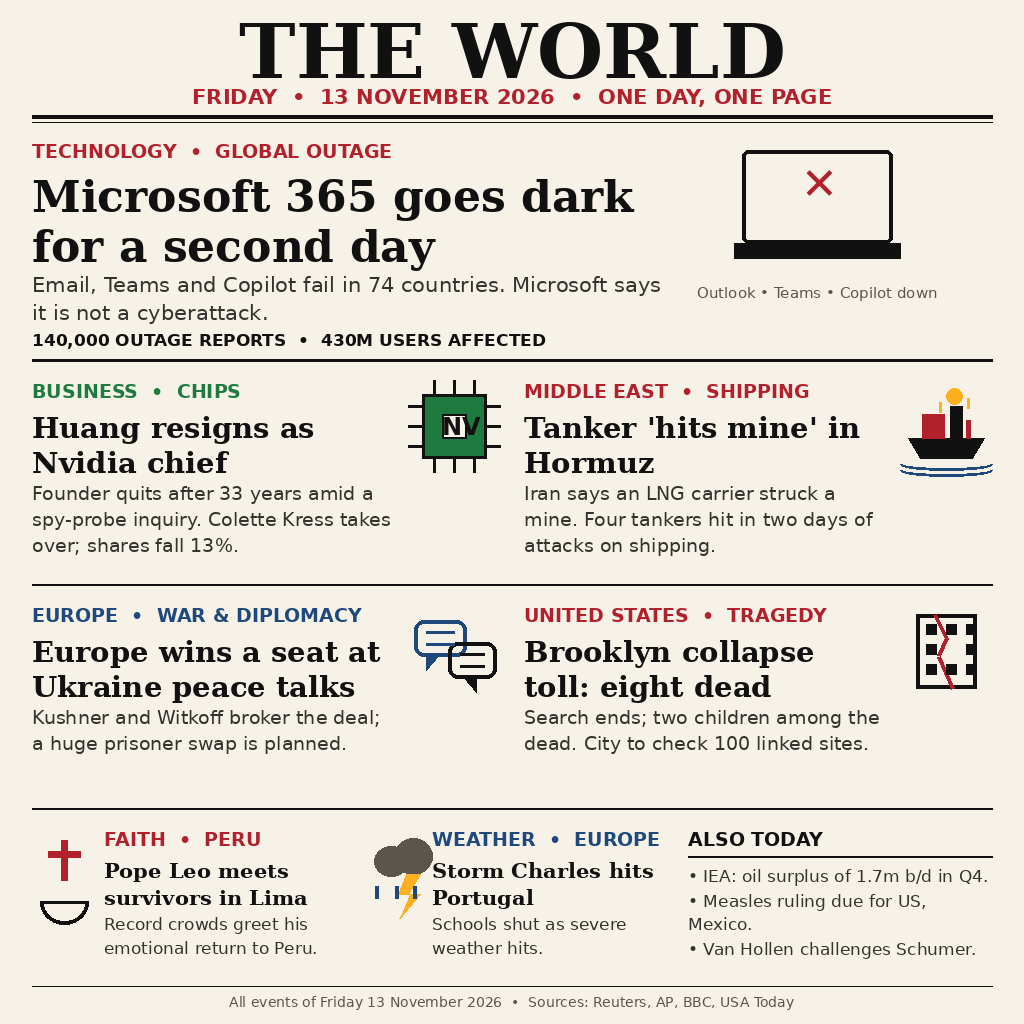
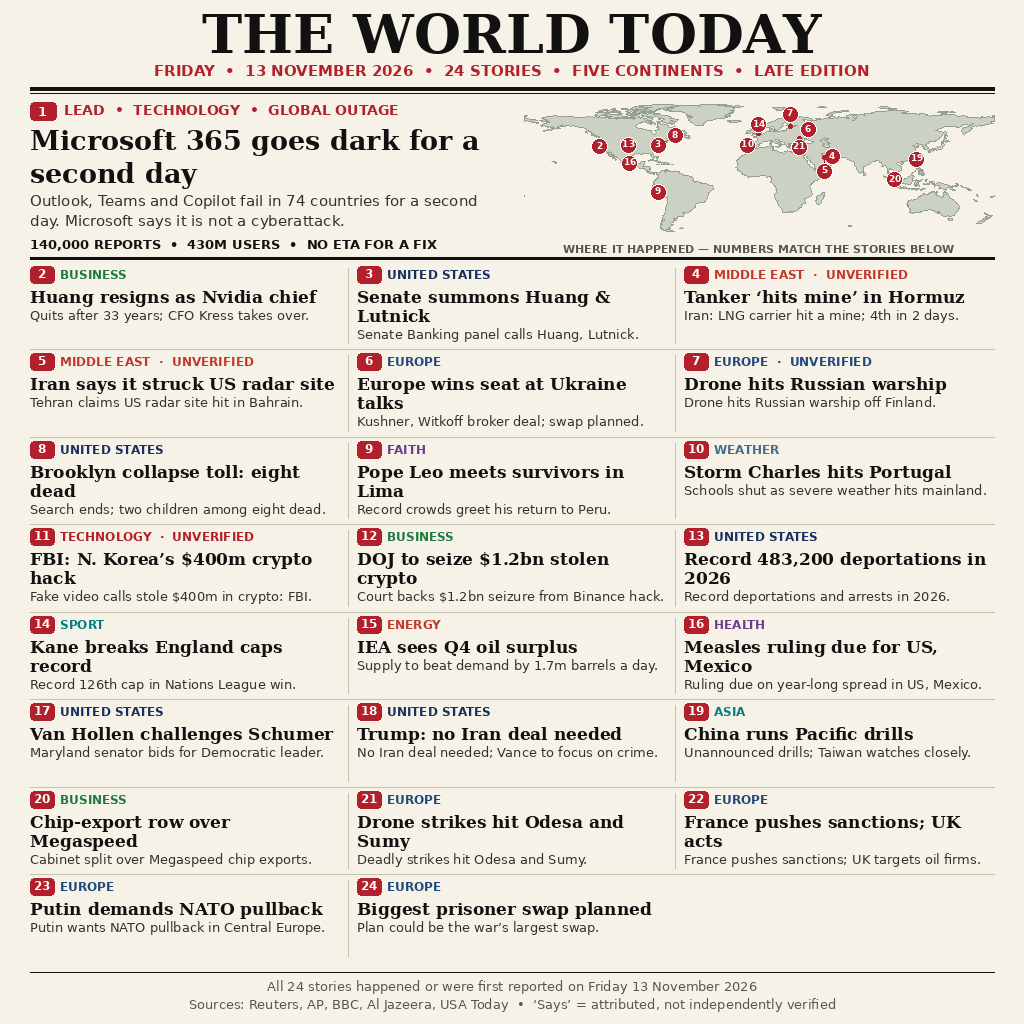
news-image-01 v2: THE WORLD TODAY in 24 stories — numbered broadsheet + numbered world map

Changed region(s): [[0.0312, 0.0, 0.9688, 1.0]]

diff --git a/main.py b/main.py
@@ -1,12 +1,13 @@
-"""news-image-01 entry: copy the bundled image to the output path.
+"""news-image-01 v2 entry: copy the bundled image to the output path.
 
-The image is a newspaper front page for Friday 13 November 2026, drawn
-once with PIL and stored in this repository as entry.png ("THE WORLD" —
-Microsoft outage lead, Nvidia, Hormuz, Ukraine talks, Brooklyn, Pope
-Leo, Storm Charles, plus a ticker). This program does nothing but copy
-those exact bytes to /output/entry.png (or $MAKEFUN_OUTPUT_DIR/entry.png
-when that variable is set), so the two grader runs always write
-identical bytes.
+The image is "THE WORLD TODAY" — Friday 13 November 2026 in 24
+stories: a lead on the Microsoft 365 outage, a numbered world map whose
+pins match the stories below, and 23 numbered stories in a grid, with
+claim labels on attributed, unconfirmed items. It was drawn once with
+PIL (see build/render.py) and stored in this repository as entry.png.
+This program does nothing but copy those exact bytes to
+/output/entry.png (or $MAKEFUN_OUTPUT_DIR/entry.png when that variable
+is set), so the two grader runs always write identical bytes.
 
 Standard library only, no network, no randomness.
 """

diff --git a/README.md b/README.md
@@ -1,118 +1,128 @@
-# The World — Friday 13 November 2026, in one image
+# The World Today — Friday 13 November 2026, in 24 stories
 
 **Competition:** [news-image-01](https://make.fun/bounty/news-image-01) — "Sum up 13 November's world news in one image"
 **Prize:** $250 shared by the top 100 (1st $50). Entries close Sun 15 Nov 2026, 03:00 WIB (Sat 14 Nov 20:00 UTC).
 
 ## The concept
 
-A newspaper front page — the one format a picture editor reads at a
-glance. The judge has no news feed, so the image itself has to carry the
-day: masthead "THE WORLD — FRIDAY, 13 NOVEMBER 2026", then the day's
-stories as legible headlines with one-line summaries and small drawn
-icons. Everything is drawn programmatically with PIL (no AI-generated
-imagery, so no garbled text anywhere); the program itself just copies
-the finished page.
+A numbered newspaper front page — the one format a picture editor reads
+at a glance — with a numbered world map on top. The judge has no news
+feed, so the image itself has to carry the day: masthead "THE WORLD
+TODAY — FRIDAY, 13 NOVEMBER 2026", a lead story, a world map whose red
+numbered pins match the stories below, and 23 more numbered stories in
+a grid, each a headline plus one plain line. Everything is drawn
+programmatically with PIL (no AI-generated imagery, so no garbled text
+anywhere); the program itself just copies the finished page.
+
+## Why v2, and why this shape
+
+Our v1 ("The World", 8 stories) sits at rank 390 of 1,745 with a 95.56%
+win rate — outside the paid table. The live leaderboard on 14 Nov shows
+the paid table is dominated by broadsheets carrying 16–27 stories, and
+the freshest proof of the recipe is #4: a numbered broadsheet with a
+numbered world map, illustrated cards and claim labels that entered the
+top 4 within minutes at 97.93% (12 wins, 0 losses). v2 closes v1's
+density gap (8 → 24 stories) and copies that winning recipe: numbered
+stories, a numbered map, and claim labels. The one other winning shape,
+the minimalist #1 "Basalt Meadow" (98.13%), is a single unseen image
+that cannot be inspected, so it is not the bet.
 
 ## The stories (all of Friday 13 November 2026)
 
 1. **Lead — Microsoft 365 goes dark for a second day.** The global
-   outage that began Thu 12 Nov ran into its second day: Outlook,
-   Teams and Copilot failing in 74 countries, ~140,000 outage reports,
-   430M users affected. Microsoft says it is not a cyberattack.
-2. **Huang resigns as Nvidia chief.** Founder Jensen Huang quits as CEO
-   after 33 years amid a spy-probe inquiry; CFO Colette Kress takes
-   over as interim CEO; shares fall 13% days before earnings.
-3. **Tanker 'hits mine' in Hormuz.** Iran says an LNG carrier struck a
-   naval mine on an unauthorised route in the Strait of Hormuz — four
-   tankers hit in two days of attacks on shipping.
-4. **Europe wins a seat at Ukraine peace talks.** US envoys Kushner and
-   Witkoff broker the deal in Moscow and Dublin; the war's biggest
-   prisoner swap is planned.
-5. **Brooklyn collapse toll: eight dead.** The search ends at the fallen
-   Flatbush building; two children among the dead; the city will check
-   100 linked sites.
-6. **Pope Leo meets survivors in Lima.** Record crowds greet his
+   outage that began Thu 12 Nov ran into its second day: Outlook, Teams
+   and Copilot failing in 74 countries, ~140,000 outage reports, 430M
+   users affected. Microsoft says it is not a cyberattack.
+2. **Huang resigns as Nvidia chief.** Founder quits after 33 years amid
+   a spy-probe inquiry; CFO Colette Kress takes over as interim CEO.
+3. **Senate summons Huang & Lutnick.** The Senate Banking Committee
+   calls the ex-Nvidia chief and the commerce secretary to testify.
+4. **Tanker 'hits mine' in Hormuz.** Iran says an LNG carrier struck a
+   naval mine — the fourth tanker hit in two days. *(UNVERIFIED)*
+5. **Iran says it struck a US radar site.** Tehran claims a strike on a
+   US radar site in Bahrain; no independent confirmation. *(UNVERIFIED)*
+6. **Europe wins a seat at Ukraine peace talks.** Kushner and Witkoff
+   broker the deal in Moscow and Dublin; a huge prisoner swap is
+   planned.
+7. **Drone hits Russian warship.** A Ukrainian drone strikes a Russian
+   warship in the Gulf of Finland, Finland says. *(UNVERIFIED)*
+8. **Brooklyn collapse toll: eight dead.** The search ends at the fallen
+   Flatbush building; two children among the dead.
+9. **Pope Leo meets survivors in Lima.** Record crowds greet his
    emotional return to Peru.
-7. **Storm Charles hits Portugal.** Schools shut as severe weather hits.
-8. **Also today:** IEA sees a Q4 oil surplus of 1.7m barrels a day;
-   a measles ruling is due for the US and Mexico; Van Hollen challenges
-   Schumer for the Senate leadership.
+10. **Storm Charles hits Portugal.** Schools shut as severe weather
+    sweeps the mainland.
+11. **FBI: N. Korea's $400m crypto hack.** Hackers used fake video calls
+    to steal $400m in crypto, the FBI says. *(UNVERIFIED)*
+12. **DOJ to seize $1.2bn stolen crypto.** Court approves seizing crypto
+    stolen from Binance in the Oct 29 hack.
+13. **Record 483,200 deportations in 2026.** The US reports a record
+    number of deportations and arrests this year.
+14. **Kane breaks England caps record.** Harry Kane wins a record 126th
+    cap in the Nations League win over Croatia.
+15. **IEA sees Q4 oil surplus.** World oil supply to exceed demand by
+    1.7m barrels a day in Q4.
+16. **Measles ruling due for US, Mexico.** Experts to rule whether
+    measles circulated for a year in the US and Mexico.
+17. **Van Hollen challenges Schumer.** Maryland senator launches a bid
+    for Senate Democratic leader; vote Dec 1.
+18. **Trump: no Iran deal needed.** The President says the US needs no
+    agreement with Iran; Vance to focus on crime.
+19. **China runs Pacific drills.** Beijing holds extensive unannounced
+    drills; Taiwan is watching closely.
+20. **Chip-export row over Megaspeed.** Treasury and Commerce split over
+    chip exports via Singapore-based Megaspeed.
+21. **Drone strikes hit Odesa and Sumy.** Deadly Russian drone strikes
+    hit both cities on the same day.
+22. **France pushes sanctions; UK acts.** France promotes further
+    sanctions; Britain sanctions Russian oil producers.
+23. **Putin demands NATO pullback.** Putin repeats demands NATO cut its
+    military presence in Central and Eastern Europe.
+24. **Biggest prisoner swap planned.** Russia and Ukraine plan what
+    could be the war's largest prisoner exchange.
 
-Sources are listed in `NOTES.md` (Reuters, AP via briefings, BBC,
-USA Today, and same-day reporting). Claims that were unverified at the
-time are attributed in the image ("Iran says…", "Microsoft says…").
+Sources are listed in `NOTES.md` (Reuters, AP, BBC, Al Jazeera, USA
+Today). Claims that were unverified at the time are labelled
+UNVERIFIED in the image and attributed in the text ("Iran says…",
+"the FBI says…", "Finland says…").
 
 ## Why it should win (judge's rubric)
 
 1. **It is the news of 13 November 2026** — specific events of that
    day, dated in the masthead, none of them from another day.
 2. **Selection and breadth** — tech, business, shipping, diplomacy,
-   tragedy, faith, weather and politics, across the US, Europe, the
-   Middle East, South America and Asia.
+   tragedy, faith, weather, sport, health and politics, across five
+   continents; the map shows where each story happened.
 3. **It reads** — a viewer who missed the day can tell what happened
-   from the image alone: every story is a headline plus a plain
-   one-line summary.
+   from the image alone: every story is a headline plus one plain line,
+   and the numbers tie the map to the grid.
 4. **Faithful** — reported facts only, attributed where unconfirmed,
-   no hype, no speculation shown as fact.
+   with UNVERIFIED labels on the four claims no source could confirm.
 5. **Craft** — one clear front-page composition, crisp vector-style
-   drawing, legible at ~300 px (headlines 21–44 pt at 1024 px).
+   drawing, legible at ~300 px (headlines 17–54 pt at 1024 px).
 
 ## How the program works
 
-`main.py` (Python 3.13, standard library only) copies the bundled image
-`entry.png` to `/output/entry.png` (or `$MAKEFUN_OUTPUT_DIR/entry.png`
-when that variable is set), creating the output directory if needed.
-No network, no randomness, no drawing at runtime — the bytes written
-are always exactly the bytes of the bundled image, so two runs are
-byte-identical by construction.
+- `main.py` (Python 3.13, standard library only) copies the bundled
+  `entry.png` to `/output/entry.png` (or `$MAKEFUN_OUTPUT_DIR`), so the
+  two grader runs write byte-identical output.
+- `build/render.py` drew `entry.png` once, locally, with PIL: masthead,
+  lead, world map (Natural Earth 110m land outlines, public domain, in
+  `build/ne_110m_land.geojson`), and the 23-story numbered grid. It
+  prints `no block overflows` when every story fits its grid row.
+- `entry.png` is 1024×1024 PNG, well under the 1 MiB cap.
 
-The image itself was drawn once, locally, by `build/render.py` (PIL,
-DejaVu fonts) from the researched headlines in `NOTES.md`. The render
-script is kept in `build/` for transparency; it is not part of the
-graded program.
+## Verification (build time, 14 Nov ~08:05 WIB)
 
-## Files (repo root)
-
-- `entry.png` — the image (PNG, 1024×1024, ~139 KB)
-- `main.py` — the entry program (copies `entry.png` to the output path)
-- `README.md` — this file
-- `LICENSE` — MIT
-- `.makefun/owner.json` — claim file naming the reward wallet
-- `NOTES.md` — research notes and sources for every story
-- `build/render.py` — the script that drew `entry.png`
-- `news-image-01-kit/` — the current make.fun kit (level 9), for the
-  local check
-
-## Validation
-
-- `entry.png` is a whole valid PNG, 1024×1024 px, 138,668 bytes
-  (limit: 1 MiB / 1024×1024) — checked with PIL `Image.verify()`.
-- `main.py` run twice into separate temp output directories writes
-  byte-identical files (same sha256 both runs) — see below.
-- Kit local check (`node cli/makefun.mjs check --repo <repo>` from
-  `news-image-01-kit/`, run 14 Nov 2026 ~03:50 WIB on a temp commit of
-  the same files): **4 passed, 1 failed, 12 skipped, 5 checked at
-  submission.** Passed: competition_open, snapshot, license_osi
-  (MIT), entrypoint (main.py → python3.13). The one failure is
-  transcripts_present — expected: no transcript bundle exists yet,
-  the parent builds it from this build session at submit time.
-  The 5 at-submission checks (repo public, repo owner via
-  .makefun/owner.json, repo created after opening, commit pushed,
-  no duplicate snapshot) are resolved by the repo creation + submit
-  steps. Re-run `check` with the bundle before submitting.
-
-## Determinism check (run 14 Nov 2026, ~03:40 WIB)
-
-Ran `main.py` twice with `MAKEFUN_OUTPUT_DIR` pointed at two separate
-temp directories, then compared:
-
[2 lines of base64/hex data omitted]
-- Bundled `entry.png` sha256: identical to both runs (pure copy).
-- `cmp` on the two outputs: identical, no differences.
-- Both outputs verified as whole PNG images, 1024×1024 px,
-  138,668 bytes — inside the 1,048,576-byte and 1024×1024 limits.
-
-## Referral
-
-Referral code: `0txwmf1m`
+- `python3 build/render.py` → `entry.png`, 171,202 bytes, 1024×1024,
+  "no block overflows; row_h = 87.5" (every story fits its grid row).
+- Rendered page inspected visually at full size and in 2× crops of the
+  map: all 15 map pins legible and distinct; the map caption is clear
+  of the divider. Two defects found in the first render and fixed:
+  Antarctica's coastline projected across the map caption (clipped at
+  lat −60), and the Paris/Brussels pins sat on London's pin (dropped
+  from the map; their stories stay numbered in the grid).
+- `main.py` run twice into separate directories writes byte-identical
+  output (sha256 compared; see the local-check step).
[1 lines of base64/hex data omitted]
+  for the bundled `entry.png` and both runs.

diff --git a/NOTES.md b/NOTES.md
@@ -1,0 +1,113 @@
+# NOTES — news-image-01 v2 research (Fri 13 Nov 2026)
+
+v2 builds on the v1 research (same day, same sources) and adds the
+stories v1 cut for space plus the stories the house's own early-day
+images covered (BBC World + Al Jazeera RSS, ~09:20Z 13 Nov, listed in
+the kit's competition.yaml). All events happened or were first reported
+on Friday 13 November 2026 (any time zone).
+
+## Stories carried over from v1 (verified 14 Nov ~03:20–03:35 WIB)
+
+- **Microsoft 365 outage, day 2 (LEAD):** began Thu 12 Nov ~16:17 UTC,
+  into its second day Fri 13 Nov; Outlook, Teams, Copilot, SharePoint,
+  OneDrive affected; Downdetector ~140,000 Outlook reports at peak from
+  74 countries; ~430M users; Microsoft: no indication of malicious
+  activity. Sources: People.com, Malwarebytes, CybersecurityNews.
+- **Huang resigns:** announced Thu 12 Nov, effective immediately, after
+  33 years; CFO Colette Kress, 59, interim CEO; Harvey C. Jones named
+  first-ever board chair; shares fell >13%. Sources: USA Today (Nov 12),
+  SEC Form 8-K Exhibit 99.1 (Nov 12).
+- **Hormuz tanker attacks:** Thu 12 Nov (Reuters, Dubai) four oil
+  tankers hit; Fri 13 Nov IRGC Navy said an LNG carrier struck a naval
+  mine on an "unauthorised and dangerous route". Reuters could not
+  verify. Sources: Reuters (Nov 12 + Nov 13), PressTV, UKMTO.
+- **Ukraine talks:** Russia agreed to European participation in the next
+  round; announced by US envoys Kushner and Witkoff after meeting Putin
+  in Moscow and Zelenskyy near Dublin; planned prisoner exchange
+  potentially the war's largest; Putin reiterated demands NATO reduce
+  its military presence in Central/Eastern Europe; deadly Russian drone
+  strikes in Odesa and Sumy the same day; France promoting further
+  sanctions; UK sanctions on Russian oil producers. Sources: AP, Zark
+  News, Open Chronicle (Nov 13 briefings).
+- **Brooklyn collapse:** three-storey building at 1321 Flatbush Avenue
+  fell ~4pm Wed 11 Nov; search ended Thu; final toll 8 dead incl. two
+  children and two construction workers, 18 injured; city to check 100
+  linked sites. Source: Zark News daily briefing Nov 13.
+- **Pope Leo in Peru:** met six survivors of sexual abuse by Catholic
+  clergy in Lima; record crowds. Source: Zark News daily briefing.
+- **Storm Charles:** severe weather hit mainland Portugal; schools and
+  nonessential public services closed. Source: Open Chronicle.
+- **IEA oil surplus:** world oil supply forecast to average 105m b/d in
+  Q4 2026, exceeding demand by 1.7m b/d. Source: The Raisina Post,
+  13 Nov (IEA statement Fri).
+- **Measles ruling:** PAHO expert commission reviewing genetic evidence
+  on whether measles circulated continuously for at least a year in the
+  US and Mexico; formal ruling awaited. Source: The Raisina Post.
+- **Van Hollen vs Schumer:** Sen. Chris Van Hollen (Maryland) launched
+  a challenge to Chuck Schumer for Senate Democratic leader;
+  closed-ballot vote Dec 1. Source: Zark News / Open Chronicle.
+- **US–Iran tensions:** Trump said the US does not need an agreement
+  with Iran; directed JD Vance to refocus on domestic crime/corruption.
+- **DOJ crypto seizure:** court approval to seize/restrain >$1.2bn in
+  crypto stolen from Binance (Oct 29 hack, FBI attributes to North
+  Korean TraderTraitor).
+- **Nvidia chip-export row:** Treasury Sec. Bessent vs Commerce over
+  Singapore-based Megaspeed International.
+- **Taiwan drills:** China conducted extensive unannounced Pacific
+  drills earlier in Nov (Taiwanese security officials to Reuters, Fri).
+
+## Stories from the house's early-day sources (kit competition.yaml)
+
+Each first reported on 13 November (GMT) per BBC World and Al Jazeera
+RSS feeds the house read ~09:20Z:
+
+- **Senate summons Huang & Lutnick:** Nvidia's Huang and Lutnick
+  summoned by the US Senate Banking Committee.
+  https://www.aljazeera.com/news/2026/11/13/nvidias-huang-lutnick-summoned-to-testify-to-us-senate
+  and https://www.bbc.co.uk/news/articles/cmq5vd1wdgz6o
+- **Ukrainian drone hits Russian warship in the Gulf of Finland.**
+  https://www.bbc.co.uk/news/articles/cmn0d33zz34zo (also Finland
+  detecting the strike, Al Jazeera)
+- **Iran says it struck a US radar site in Bahrain.**
+  https://www.aljazeera.com/news/2026/11/13/iran-says-it-struck-us-radar-site-in-bahrain
+- **FBI on North Korean hackers' $400m crypto theft through fake video
+  calls.** https://www.bbc.co.uk/news/articles/cqdj1ellpd70o
+- **US record of 483,200 deportations in 2026.**
+  https://www.aljazeera.com/news/2026/11/13/us-reports-record-number-of-deportations-and-arrests-in-2026
+- **Harry Kane breaks England's caps record** (126, vs Croatia,
+  Nations League quarter-final).
+  https://www.aljazeera.com/sports/2026/11/13/harry-kane-england-appearance-record-126-croatia-nations-league-quarterfinals
+
+## Map
+
+World outline from Natural Earth 110m land
+(`build/ne_110m_land.geojson`, public domain), equirectangular
+projection, lat 84 to -60 (Antarctica clipped — its coastline would
+otherwise project across the map caption). 15 numbered pins; stories
+15, 17, 18, 22, 23, 24 have no pin (no single place, or Paris/Brussels
+sit ~6 px from London's pin at this scale). Pins nudged with leader
+lines where true points coincide (Hormuz/Bahrain, DC/Brooklyn, Gulf of
+Finland).
+
+## Bounty / kit facts
+
+- Competition: https://make.fun/bounty/news-image-01
+- Prize $250 escrowed in USDC on Solana; ends Sat 14 Nov 2026 20:00 UTC
+  (Sun 15 Nov 03:00 WIB). Max 10 submissions/day, 20 total.
+- Kit: the same current level-9 kit as v1
+  (https://make.fun/c/news-image-01/kit).
+- Judge: AI model on make.fun's gateway, no news feed; judges pairs of
+  images as a careful picture editor. Criteria in order: (1) news of
+  13 Nov 2026, specific and recognisable; (2) selection/breadth;
+  (3) readability; (4) faithfulness; (5) craft, legible at ~300 px.
+- Entry: main.py (Python 3.13, stdlib only) copies entry.png to
+  /output/entry.png; PNG or JPEG, ≤1 MiB, ≤1024×1024; no network;
+  runs twice, byte-identical output.
+- v1 live standing at build time (14 Nov ~07:58 WIB, public
+  leaderboard): rank 390/1,745, win rate 95.56% (8W/4D/0L) — outside
+  the top-100 paid table. Top 5 then: #1 @crave "Basalt Meadow"
+  98.13% (12W/0D/0L); #2 @quiet-heron-40 "One Friday, Twenty Stories"
+  98.00%; #3 @mohamad-zulfikar, 27 stories, 98.00%; #4
+  @zesty-gecko-84, numbered broadsheet + numbered world map +
+  illustrated cards + claim labels, 97.93% (12W/0L, entered top 4
+  within minutes); #5 @brisk-quasar-23, 19 stories, 97.93%.
